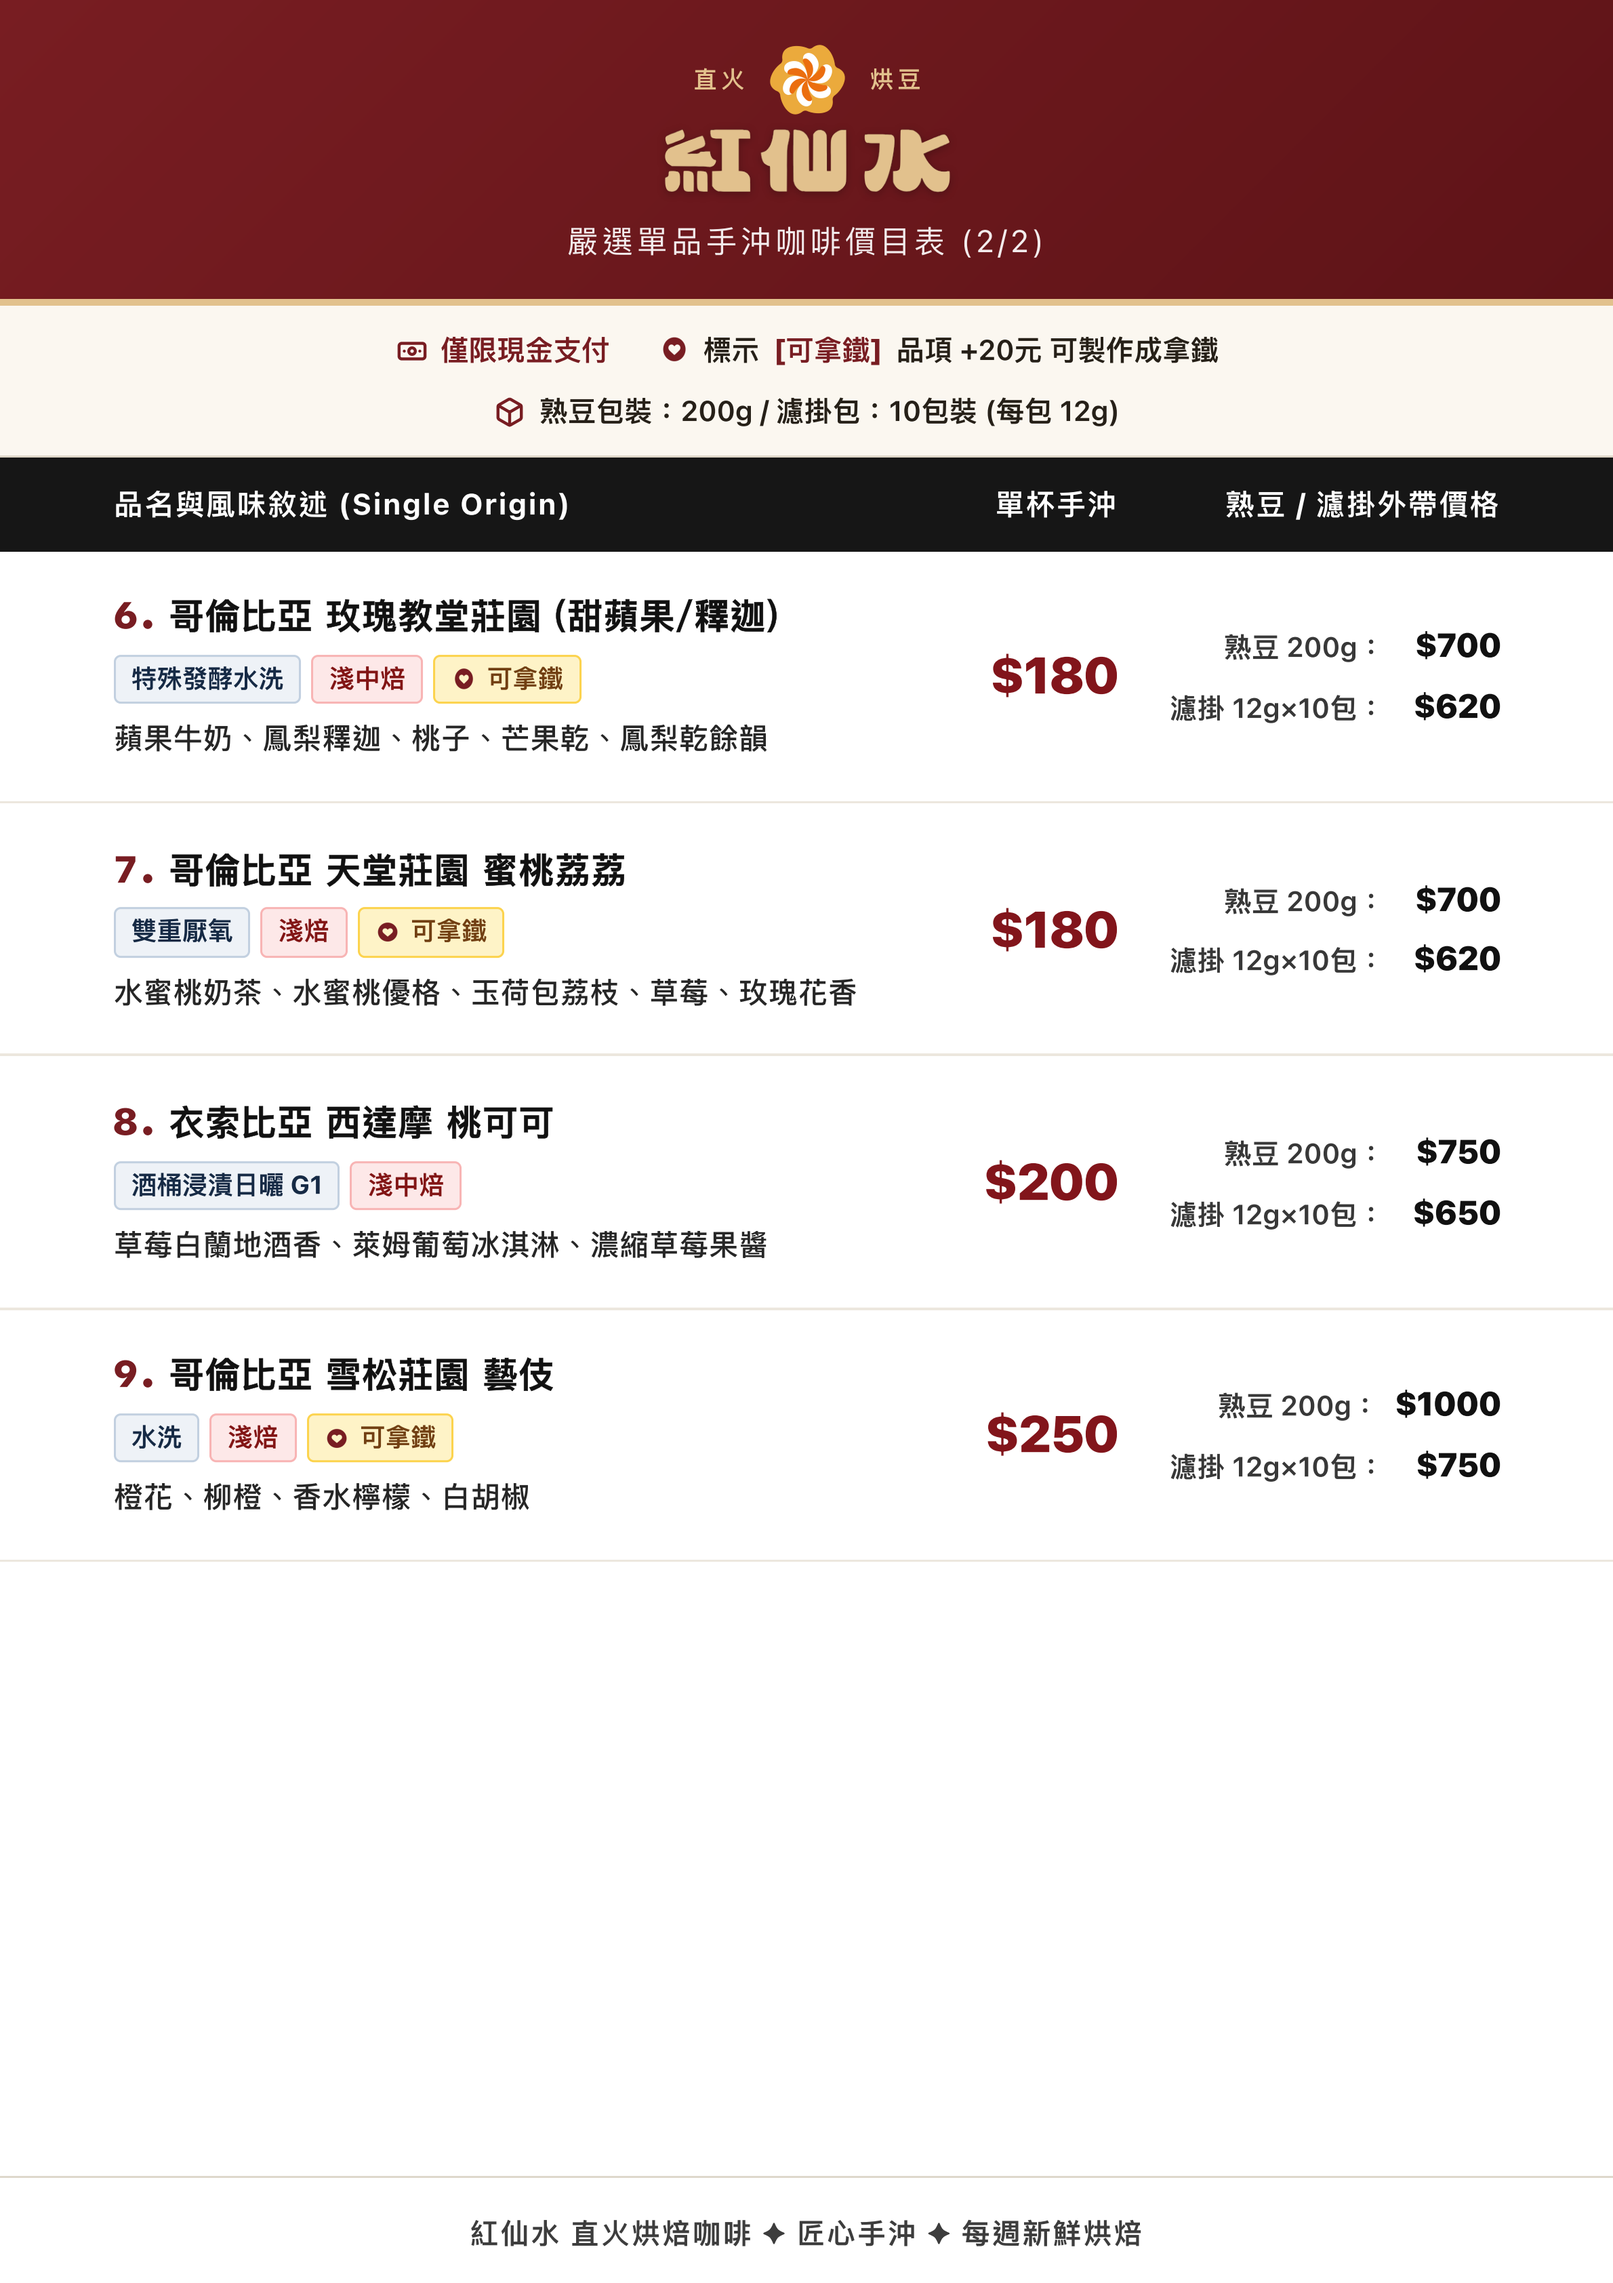
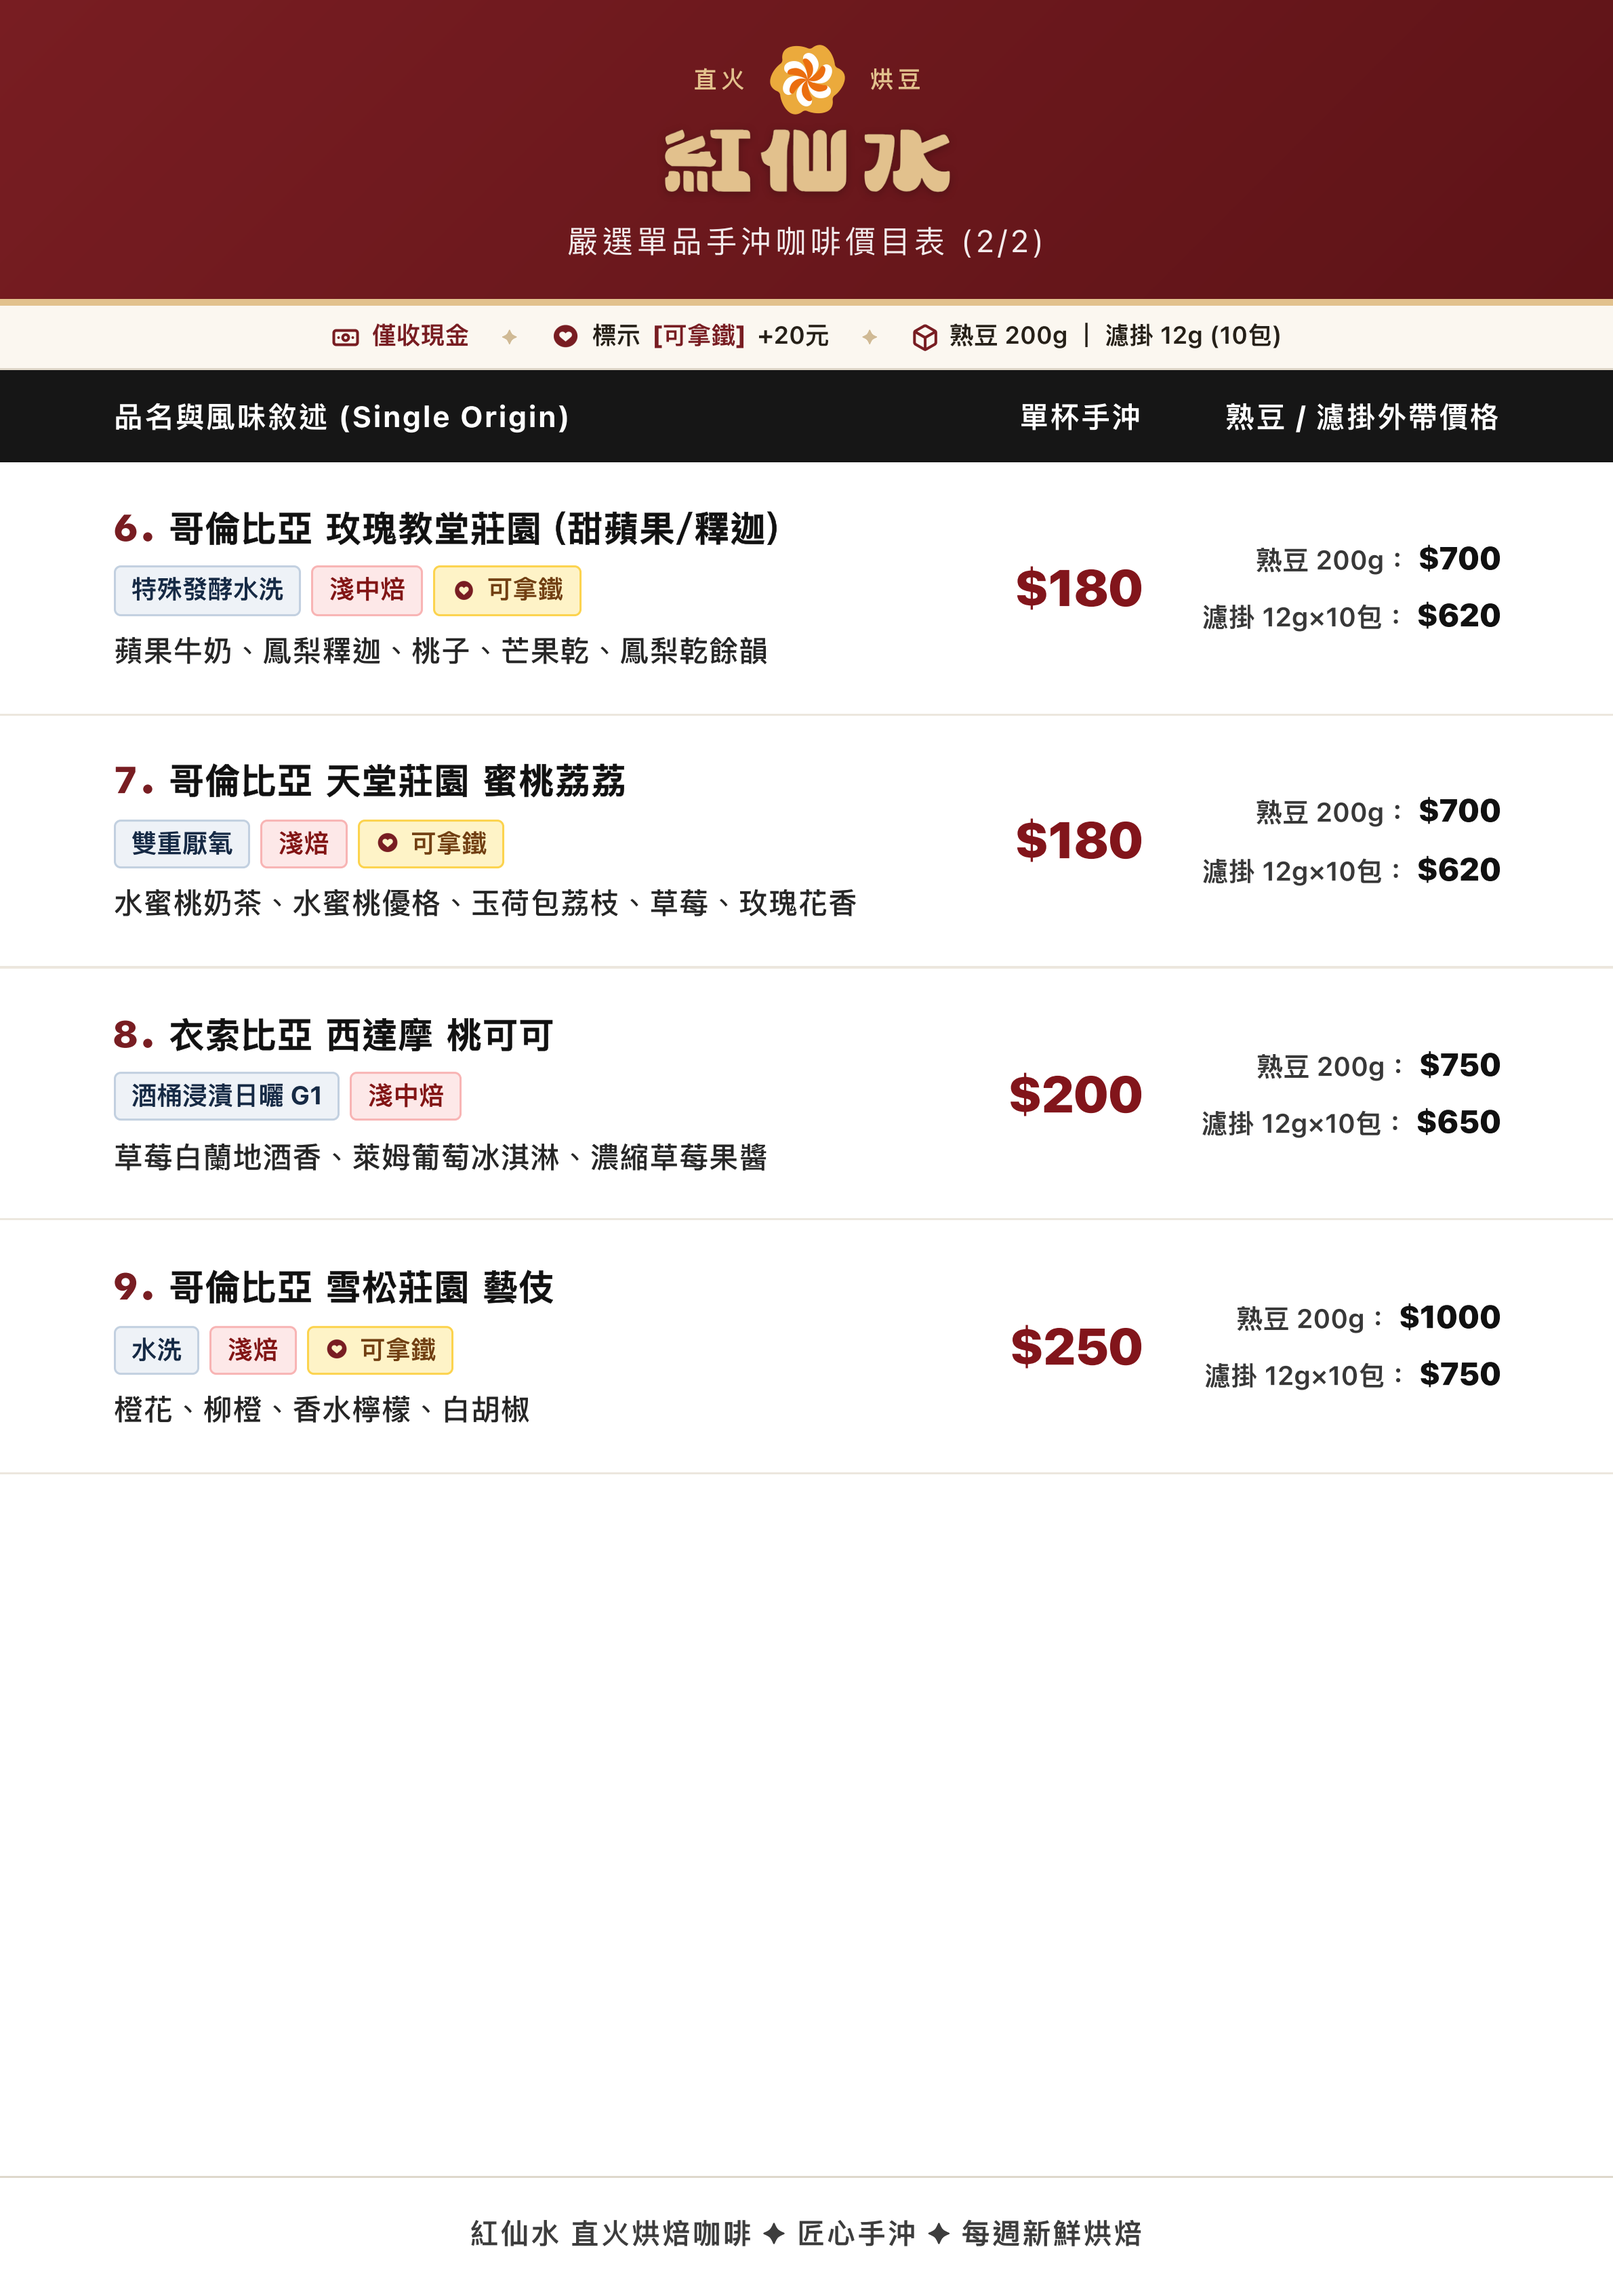
style: tighten notice bar to single line and re-align package price spacing

diff --git a/index.html b/index.html
@@ -665,9 +665,11 @@
         </header>
 
         <section class="notice-bar">
-          <div class="notice-item"><svg class="notice-icon" viewBox="0 0 24 24" fill="none" stroke="currentColor" stroke-width="2.2" stroke-linecap="round" stroke-linejoin="round" aria-hidden="true" focusable="false"><rect x="2" y="6" width="20" height="12" rx="2"/><circle cx="12" cy="12" r="2.5"/><path d="M6 12h.01M18 12h.01"/></svg> <span class="notice-badge">僅限現金支付</span></div>
-          <div class="notice-item"><svg class="notice-icon" viewBox="0 0 24 24" fill="none" stroke="currentColor" stroke-width="2.2" stroke-linecap="round" stroke-linejoin="round" aria-hidden="true" focusable="false"><path d="M18 8h1a4 4 0 0 1 0 8h-1"/><path d="M2 8h16v9a4 4 0 0 1-4 4H6a4 4 0 0 1-4-4V8z"/><line x1="6" y1="2" x2="6" y2="4"/><line x1="10" y1="2" x2="10" y2="4"/><line x1="14" y1="2" x2="14" y2="4"/></svg> 標示 <span class="notice-badge">[可拿鐵]</span> 品項 +20元 可製作成拿鐵</div>
-          <div class="notice-item"><svg class="notice-icon" viewBox="0 0 24 24" fill="none" stroke="currentColor" stroke-width="2.2" stroke-linecap="round" stroke-linejoin="round" aria-hidden="true" focusable="false"><path d="M21 16V8a2 2 0 0 0-1-1.73l-7-4a2 2 0 0 0-2 0l-7 4A2 2 0 0 0 3 8v8a2 2 0 0 0 1 1.73l7 4a2 2 0 0 0 2 0l7-4A2 2 0 0 0 21 16z"/><polyline points="3.27 6.96 12 12.01 20.73 6.96"/><line x1="12" y1="22.08" x2="12" y2="12"/></svg> 熟豆包裝：200g / 濾掛包：10包裝</div>
+          <div class="notice-item"><svg class="notice-icon" viewBox="0 0 24 24" fill="none" stroke="currentColor" stroke-width="2.2" stroke-linecap="round" stroke-linejoin="round" aria-hidden="true" focusable="false"><rect x="2" y="6" width="20" height="12" rx="2"/><circle cx="12" cy="12" r="2.5"/><path d="M6 12h.01M18 12h.01"/></svg> <span class="notice-badge">僅收現金</span></div>
+          <span class="notice-divider">✦</span>
+          <div class="notice-item"><svg class="notice-icon" viewBox="0 0 24 24" fill="none" stroke="currentColor" stroke-width="2.2" stroke-linecap="round" stroke-linejoin="round" aria-hidden="true" focusable="false"><path d="M18 8h1a4 4 0 0 1 0 8h-1"/><path d="M2 8h16v9a4 4 0 0 1-4 4H6a4 4 0 0 1-4-4V8z"/><line x1="6" y1="2" x2="6" y2="4"/><line x1="10" y1="2" x2="10" y2="4"/><line x1="14" y1="2" x2="14" y2="4"/></svg> 標示 <span class="notice-badge">[可拿鐵]</span> +20元</div>
+          <span class="notice-divider">✦</span>
+          <div class="notice-item"><svg class="notice-icon" viewBox="0 0 24 24" fill="none" stroke="currentColor" stroke-width="2.2" stroke-linecap="round" stroke-linejoin="round" aria-hidden="true" focusable="false"><path d="M21 16V8a2 2 0 0 0-1-1.73l-7-4a2 2 0 0 0-2 0l-7 4A2 2 0 0 0 3 8v8a2 2 0 0 0 1 1.73l7 4a2 2 0 0 0 2 0l7-4A2 2 0 0 0 21 16z"/><polyline points="3.27 6.96 12 12.01 20.73 6.96"/><line x1="12" y1="22.08" x2="12" y2="12"/></svg> 熟豆 200g ｜ 濾掛 12g (10包)</div>
         </section>
 
         <div class="table-header">
@@ -752,9 +754,11 @@
         </header>
 
         <section class="notice-bar">
-          <div class="notice-item"><svg class="notice-icon" viewBox="0 0 24 24" fill="none" stroke="currentColor" stroke-width="2.2" stroke-linecap="round" stroke-linejoin="round" aria-hidden="true" focusable="false"><rect x="2" y="6" width="20" height="12" rx="2"/><circle cx="12" cy="12" r="2.5"/><path d="M6 12h.01M18 12h.01"/></svg> <span class="notice-badge">僅限現金支付</span></div>
-          <div class="notice-item"><img src="./assets/badge_heart_wine.png" class="wine-notice-heart-icon" alt="愛心" aria-hidden="true"> 標示 <span class="notice-badge">[可拿鐵]</span> 品項 +20元 可製作成拿鐵</div>
-          <div class="notice-item"><svg class="notice-icon" viewBox="0 0 24 24" fill="none" stroke="currentColor" stroke-width="2.2" stroke-linecap="round" stroke-linejoin="round" aria-hidden="true" focusable="false"><path d="M21 16V8a2 2 0 0 0-1-1.73l-7-4a2 2 0 0 0-2 0l-7 4A2 2 0 0 0 3 8v8a2 2 0 0 0 1 1.73l7 4a2 2 0 0 0 2 0l7-4A2 2 0 0 0 21 16z"/><polyline points="3.27 6.96 12 12.01 20.73 6.96"/><line x1="12" y1="22.08" x2="12" y2="12"/></svg> 熟豆包裝：200g / 濾掛包：10包裝 (每包 12g)</div>
+          <div class="notice-item"><svg class="notice-icon" viewBox="0 0 24 24" fill="none" stroke="currentColor" stroke-width="2.2" stroke-linecap="round" stroke-linejoin="round" aria-hidden="true" focusable="false"><rect x="2" y="6" width="20" height="12" rx="2"/><circle cx="12" cy="12" r="2.5"/><path d="M6 12h.01M18 12h.01"/></svg> <span class="notice-badge">僅收現金</span></div>
+          <span class="notice-divider">✦</span>
+          <div class="notice-item"><img src="./assets/badge_heart_wine.png" class="wine-notice-heart-icon" alt="愛心" aria-hidden="true"> 標示 <span class="notice-badge">[可拿鐵]</span> +20元</div>
+          <span class="notice-divider">✦</span>
+          <div class="notice-item"><svg class="notice-icon" viewBox="0 0 24 24" fill="none" stroke="currentColor" stroke-width="2.2" stroke-linecap="round" stroke-linejoin="round" aria-hidden="true" focusable="false"><path d="M21 16V8a2 2 0 0 0-1-1.73l-7-4a2 2 0 0 0-2 0l-7 4A2 2 0 0 0 3 8v8a2 2 0 0 0 1 1.73l7 4a2 2 0 0 0 2 0l7-4A2 2 0 0 0 21 16z"/><polyline points="3.27 6.96 12 12.01 20.73 6.96"/><line x1="12" y1="22.08" x2="12" y2="12"/></svg> 熟豆 200g ｜ 濾掛 12g (10包)</div>
         </section>
 
         <div class="table-header">

diff --git a/style.css b/style.css
@@ -609,30 +609,39 @@ body.mode-continuous .sheet-page-indicator {
   margin-top: 5.1px;
 }
 
-/* 2. Notice Bar (滿版橫幅，內文 56px 對齊風格三，WCAG AAA 高對比度) */
+/* 2. Notice Bar (滿版橫幅，極致緊湊單行，絕不換行，優雅金色裝飾帶) */
 .notice-bar {
   background-color: var(--color-brand-gold-light);
   border-bottom: 1.5px solid #ded6c8;
   border-top: none;
   border-radius: 0;
-  padding: 11.9px 56px;
+  padding: 7px 56px;
   margin-bottom: 0;
   display: flex;
-  flex-wrap: wrap;
+  flex-wrap: nowrap;
   align-items: center;
   justify-content: center;
-  gap: 10.2px 23.8px;
-  font-size: 1.02rem;
+  gap: 16px;
+  font-size: 0.88rem;
   font-weight: 600;
   color: #262018;
-  line-height: 1.5;
+  line-height: 1.4;
+  white-space: nowrap;
+}
+
+.notice-divider {
+  color: #c2a677;
+  font-size: 0.7rem;
+  opacity: 0.75;
+  user-select: none;
 }
 
 .notice-item {
   display: inline-flex;
   align-items: center;
-  gap: 6.8px;
-  line-height: 1.45;
+  gap: 5.5px;
+  line-height: 1.4;
+  white-space: nowrap;
 }
 
 .notice-badge {
@@ -641,8 +650,8 @@ body.mode-continuous .sheet-page-indicator {
 }
 
 .notice-icon {
-  width: 15.3px;
-  height: 15.3px;
+  width: 14px;
+  height: 14px;
   stroke: var(--color-brand-wine);
   stroke-width: 2.3;
   flex-shrink: 0;
@@ -654,8 +663,8 @@ body.mode-continuous .sheet-page-indicator {
   background-color: #161616;
   color: #ffffff;
   display: grid;
-  grid-template-columns: minmax(0, 1fr) 72px 168px;
-  column-gap: 20px;
+  grid-template-columns: minmax(0, 1fr) 68px 148px;
+  column-gap: 28px;
   padding: 12.7px 56px;
   font-size: 1.05rem;
   font-weight: 700;
@@ -686,8 +695,8 @@ body.mode-continuous .sheet-page-indicator {
 
 .coffee-item-row {
   display: grid;
-  grid-template-columns: minmax(0, 1fr) 72px 168px;
-  column-gap: 20px;
+  grid-template-columns: minmax(0, 1fr) 68px 148px;
+  column-gap: 28px;
   padding: 14.4px 56px;
   background: transparent;
   border: none;
@@ -845,22 +854,21 @@ body.mode-continuous .sheet-page-indicator {
   display: flex;
   justify-content: flex-end;
   align-items: baseline;
-  gap: 7.6px;
+  gap: 3.5px;
   white-space: nowrap;
 }
 
 .pkg-label {
   color: #383838;
   font-weight: 600;
-  font-size: 1.0rem;
+  font-size: 0.96rem;
 }
 
 .pkg-val {
   font-family: var(--font-sans);
   font-weight: 900;
   color: #111111;
-  min-width: 49.3px;
-  font-size: 1.2rem;
+  font-size: 1.15rem;
   letter-spacing: -0.02em;
   text-align: right;
 }
